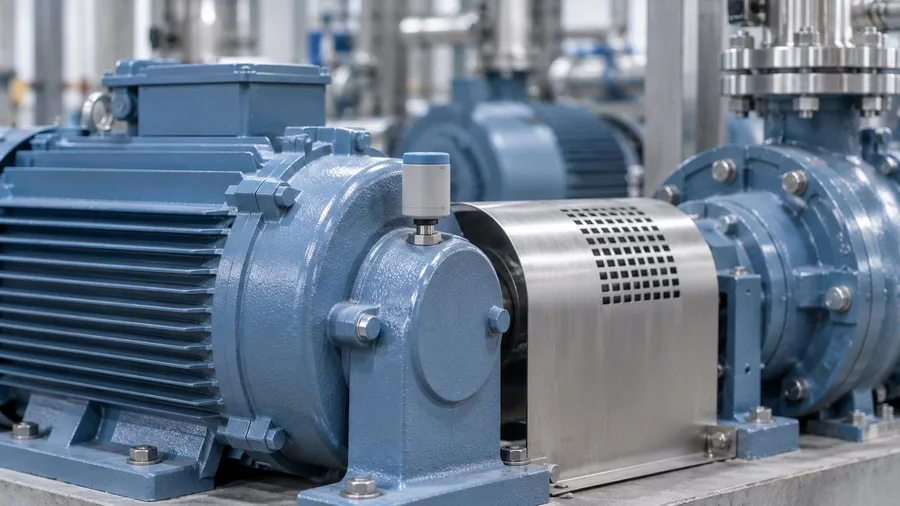
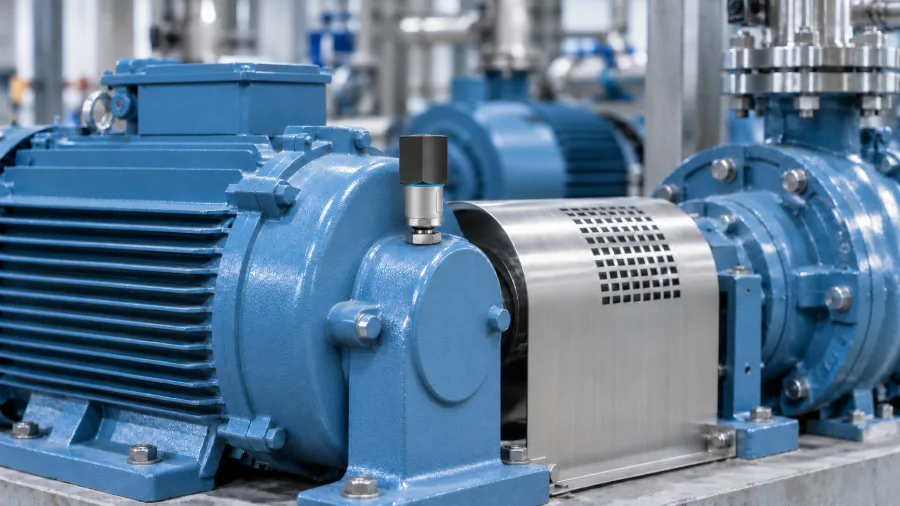
design: 예지보전 사진을 무선 진동센서가 보이는 판으로 바꾼다
모터·펌프 스키드의 베어링 하우징에 무선 진동센서가 붙어 있는 장면이다.
이전 판은 펌프와 배관만 있어 과제 이름과 사진이 따로 놀았다.

원본이 1672x941 이라 히어로 선언 규격을 2560x1440 에서 내린다(국문·영문).
히어로는 object-fit: cover 라 1425x900 에서 좌우 87px 씩만 잘리고 센서는
프레임 안에 남는다. 모두 q82.
  predictive-hero                 178,082 → 140,890 B
  cards/predictive-maintenance     88,140 →  92,456 B
  cards/sized/...-1400            100,710 → 103,432 B
  cards/sized/...-900              56,156 →  56,164 B
  cards/sized/...-480              22,086 →  23,024 B

원본 PNG 는 .gitignore 에 있는 이미지/ 로 옮겼다.

diff --git a/src/data/usecases/index.ts b/src/data/usecases/index.ts
@@ -25,8 +25,8 @@ export const useCases: UseCase[] = [
     heroImage: {
       src: '/use-cases/predictive-hero.webp',
       alt: '펌프와 배관이 늘어선 공장 기계실. 예지보전으로 상태를 감시하는 대상 설비다.',
-      width: 2560,
-      height: 1440,
+      width: 1672,
+      height: 941,
     },
     problem:
       '달력에 맞춘 정비는 아직 쓸 수 있는 부품을 버리거나 교체 주기 사이에 발생하는 갑작스러운 고장을 놓칩니다. 시간은 설비의 실제 상태를 반영하지 못하는 기준이기 때문입니다. 그렇다고 사람이 직접 현장을 돌며 진동을 측정하거나 설비마다 유선 센서를 배선하는 것도 현실적으로 부담이 큽니다.',

diff --git a/src/data/usecases/en.ts b/src/data/usecases/en.ts
@@ -11,8 +11,8 @@ export const useCasesEn: UseCase[] = [
     heroImage: {
       src: '/use-cases/predictive-hero.webp',
       alt: 'A plant machine room lined with pumps and piping — the equipment predictive maintenance watches.',
-      width: 2560,
-      height: 1440,
+      width: 1672,
+      height: 941,
     },
     heroImageAsBackground: true,
     heroTitle: 'Early signs of motor failure are read with wireless<br>vibration sensors, cutting stoppages and losses',
